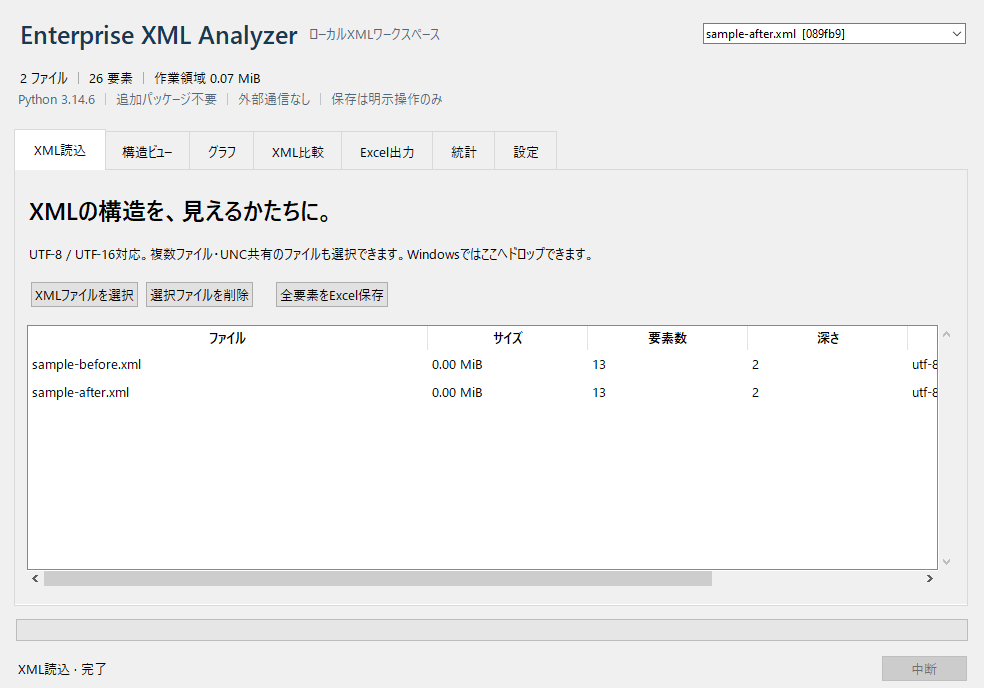
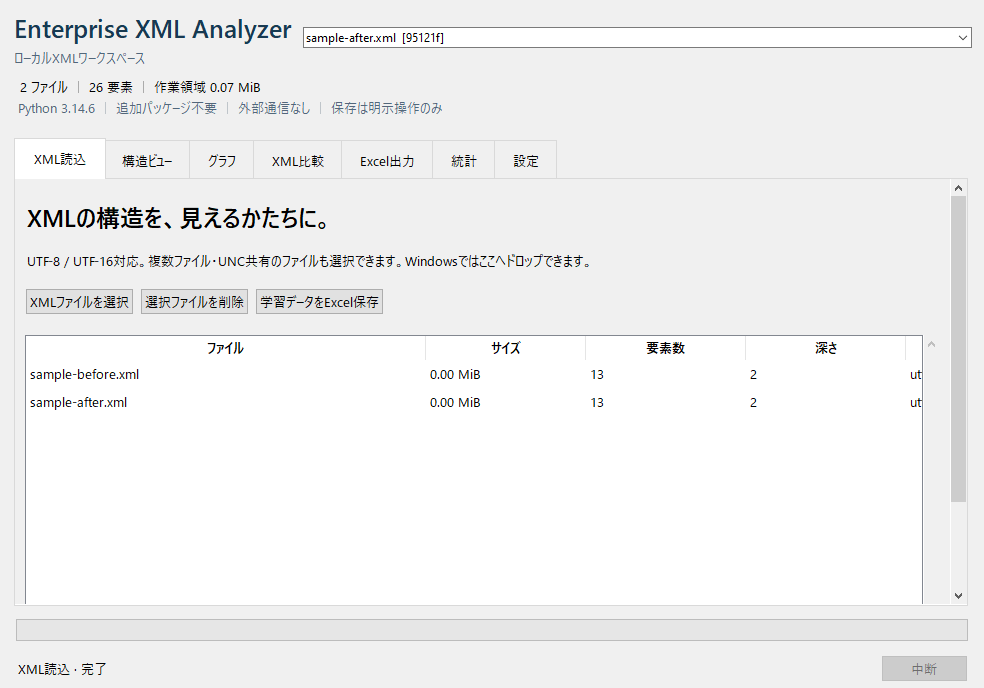
docs: update Windows screenshots and validate ML workbook output

diff --git a/docs/python-user-guide/procedure-guide.html b/docs/python-user-guide/procedure-guide.html
@@ -56,6 +56,7 @@
       <ol class="numbered-steps"><li><div><strong><code>EnterpriseXmlAnalyzer.exe</code> をダブルクリックします。</strong><p>展開したフォルダ内のEXEを実行します。通常、管理者として実行する必要はありません。</p></div></li><li><div><strong>タイトルと「XML読込」画面を確認します。</strong><p>「XML読込」「構造ビュー」「グラフ」「XML比較」「Excel出力」「統計」「設定」の7画面があります。ウインドウは最小640×480まで変更でき、幅が狭い場合は上部の「画面」で切り替えます。ボタンは折り返し、縦横のスクロールで操作できます。処理の状況と「中断」ボタンは画面下部にあります。</p></div></li></ol>
       <figure class="screenshot"><button class="shot-zoom" type="button" aria-label="起動直後の画面を拡大"><img src="images/01-start.png" alt="起動直後。XML読込タブにXMLファイルを選択ボタンと空の一覧が表示されている。" width="984" height="688"></button><figcaption>画面1｜起動直後。まず「XMLファイルを選択」を使います。</figcaption></figure>
       <p class="small-note">未署名EXEのためWindowsや会社の管理機能が起動を止める場合があります。会社の実行ルールに従って配布担当者へ確認してください。セキュリティ機能を無効にして実行しないでください。</p>
+      <figure class="screenshot"><button class="shot-zoom" type="button" aria-label="小さなウインドウでの操作画面を拡大"><img src="images/12-resize.png" alt="800×600のウインドウ。上部の画面選択、学習データの保存ボタン、プレビューと縦横のスクロールが表示される。" width="800" height="600" loading="lazy"></button><figcaption>サイズ変更｜幅が狭いときは上部の「画面」で切り替えます。右端の縦スクロールで上へ戻すと1行の単位・目的変数を変更できます。</figcaption></figure>
     </section>
 
     <section id="load" class="content-section"><div class="section-heading"><span class="section-number">05</span><div><p class="section-kicker">Import</p><h2>XMLを読み込む</h2></div></div>
@@ -120,7 +121,7 @@
     </section>
 
     <section id="verification" class="content-section"><div class="section-heading"><span class="section-number">11</span><div><p class="section-kicker">Verification</p><h2>完了確認</h2></div></div>
-      <p>練習が終わったら、次の項目を確認してください。チェック状態はこのページを再読込するとリセットされます。</p><div class="checklist-grid"><article><h3>画面・結果</h3><label><input type="checkbox"> EXEから起動でき、XMLを2ファイル読み込めた</label><label><input type="checkbox"> 構造ビューでitemとidを確認できた</label><label><input type="checkbox"> 比較で単価と在庫数の2箇所の変更を確認できた</label><label><input type="checkbox"> プレビューで変更前の3行を確認できた</label></article><article><h3>保存・終了</h3><label><input type="checkbox"> XLSXを保存し、実際に開いて3行と値を確認した</label><label><input type="checkbox"> 商品IDの001など先頭ゼロが残っている</label><label><input type="checkbox"> 必要な設定JSON・作業ファイルを保存した</label><label><input type="checkbox"> アプリを通常の手順で終了した</label></article></div>
+      <p>練習が終わったら、次の項目を確認してください。チェック状態はこのページを再読込するとリセットされます。</p><div class="checklist-grid"><article><h3>画面・結果</h3><label><input type="checkbox"> EXEから起動でき、XMLを2ファイル読み込めた</label><label><input type="checkbox"> 構造ビューでitemとidを確認できた</label><label><input type="checkbox"> 比較で単価と在庫数の2箇所の変更を確認できた</label><label><input type="checkbox"> 簡単出力では6件・4項目、詳細出力では変更前の3行を確認できた</label></article><article><h3>保存・終了</h3><label><input type="checkbox"> XLSXを保存し、簡単出力の4種類のシート、または詳細出力の3行を実際に開いて確認した</label><label><input type="checkbox"> 商品IDの001など先頭ゼロが残っている</label><label><input type="checkbox"> 必要な設定JSON・作業ファイルを保存した</label><label><input type="checkbox"> アプリを通常の手順で終了した</label></article></div>
       <p class="small-note">アプリはWindows Server 2022で機能・GUIテスト52件と同梱EXEの起動を検証済みです。Windows版Microsoft Excelそのものでの修復警告・再保存は未確認のため、利用環境で必ず出力を確認してください。</p>
     </section>
 

diff --git a/xml_analyzer/visualization.py b/xml_analyzer/visualization.py
@@ -213,6 +213,7 @@ def save_windows_canvas_png(canvas, target):
     user32.GetDC.argtypes = [wintypes.HWND]
     user32.GetClientRect.argtypes = [wintypes.HWND, ctypes.POINTER(wintypes.RECT)]
     user32.ReleaseDC.argtypes = [wintypes.HWND, wintypes.HDC]
+    user32.RedrawWindow.argtypes = [wintypes.HWND, ctypes.c_void_p, wintypes.HANDLE, wintypes.UINT]
     gdi32.CreateCompatibleDC.argtypes = [wintypes.HDC]
     gdi32.CreateCompatibleBitmap.argtypes = [wintypes.HDC, ctypes.c_int, ctypes.c_int]
     gdi32.SelectObject.argtypes = [wintypes.HDC, wintypes.HANDLE]
@@ -222,6 +223,9 @@ def save_windows_canvas_png(canvas, target):
     gdi32.GetDIBits.argtypes = [wintypes.HDC, wintypes.HBITMAP, wintypes.UINT, wintypes.UINT, ctypes.c_void_p, ctypes.c_void_p, wintypes.UINT]
     canvas.update_idletasks()
     hwnd = canvas.winfo_id()
+    # Flush native child paints after resize/scroll before copying the window pixels.
+    redraw_flags = 0x0001 | 0x0004 | 0x0080 | 0x0100  # invalidate, erase, all children, update now
+    user32.RedrawWindow(hwnd, None, None, redraw_flags)
     rect = wintypes.RECT()
     user32.GetClientRect(hwnd, ctypes.byref(rect))
     width, height = rect.right, rect.bottom

diff --git a/docs/python-test-report.md b/docs/python-test-report.md
@@ -96,3 +96,10 @@ py -3.14 build_windows.py
 追加した検証は、繰り返し候補・手動パス・ファイル単位、全件型判定、欠損・先頭ゼロ・ID・大きな数、入れ子の繰り返し・名前空間・混在テキスト、目的変数・出典、数式文字列、上限超過・中断時の既存ファイル保全、詳細設定からの独立、640×480/800×600/1000×650/1440×1000での7画面・折り返し・状態保持です。
 
 10万件の合成XML（300001要素）から3列の学習表を作成する性能試験を追加しました。Windowsのビルド・同梱EXE・画面撮影・大容量試験はGitHub Actionsで実施します。会社のWindows 11 / Server 2019とMicrosoft Excel本体での受入確認は、引き続き未確認です。
+
+
+[Windows Server 2022 / CPython 3.14.6の試験（ce81b3a）](https://github.com/rsakamoto-0824/enterprise-xml-analyzer/actions/runs/40507849201)で、52件すべてと同梱EXEの自己検証が成功しました。最小640×480の画面、4件・2項目・4シートの学習表、10行の全要素一覧を確認しています。Windows実画面12枚をHTML手順書に反映しました。
+
+同じ試験では、10万件・3項目の学習表（1,588,598バイト）を型判定から保存まで9.89秒で生成しました。XML読込23.56秒は別測定です。1/10/100/500MiBと1001001要素の試験も成功し、測定プロセス全体の累積Peak Working Setは64,958,464バイト（約62.0MiB）でした。共有CIでの合成データ単回測定であり、実データの処理時間や上限を保証しません。記録は `validation/python-ml-windows-performance.json` です。小数精度と混在テキストの空白保持を修正した版も別途再検証します。
+
+独立したopenpyxl読込で4シート・学習データ4行6列、数値・真偽値・空欄・先頭ゼロ・数式に似た文字列、ZIP/OOXML/リレーション、固定行・フィルターを確認しました。数式・セルエラー・外部リンク・VBA・名前付き範囲・テーブル・グラフは0件です。LibreOfficeで全4シート・全8ページをPDF化して目視し、元のXLSXは上書きしていません。横に広い表は印刷時に複数ページに分かれます。記録は `validation/python-ml-export-validation.json` です。Microsoft Excel本体での再オープンは未確認です。
